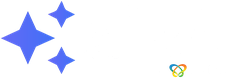
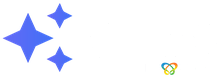
Fix: Header flicker

diff --git a/events.html b/events.html
@@ -85,7 +85,7 @@
             <div class="evh1__poster">
               <span class="evh1__dots" aria-hidden="true"></span>
               <canvas class="evh1__parts" data-us-dots aria-hidden="true"></canvas>
-              <p class="evh1__pre"><img class="evh1__logo" src="/assets/brand/aira-lockup-reverse.png" alt="aiRA by Capillary" width="96" height="32"><span>presents</span></p>
+              <p class="evh1__pre"><img class="evh1__logo" src="/assets/brand/aira-lockup-reverse.png" alt="aiRA by Capillary" width="92" height="32"><span>presents</span></p>
               <h1 class="evh1__t">The Future<br>of AI in<br><em>Customer<br>Analytics</em></h1>
               <p class="evh1__year"><i aria-hidden="true">&#10022;</i> Live across US <i aria-hidden="true">&#10022;</i></p>
               <ul class="evh1__dates">

diff --git a/index.html b/index.html
@@ -835,7 +835,7 @@
                 <span class="sr-only">Compared on</span>
               </div>
               <div class="compare__cell compare__cell--aira compare__cell--head" role="columnheader">
-                <img src="/assets/brand/aira-lockup-reverse.png" alt="aiRA by Capillary" width="96" height="32">
+                <img src="/assets/brand/aira-lockup-reverse.png" alt="aiRA by Capillary" width="92" height="32">
               </div>
               <div class="compare__cell compare__cell--other compare__cell--head" role="columnheader">
                 Horizontal AI analytics platforms

diff --git a/components/navbar.html b/components/navbar.html
@@ -12,7 +12,7 @@
         <img class="nav__logo-light" src="/assets/brand/aira-lockup.png"
              alt="aiRA by Capillary" width="92" height="32">
         <img class="nav__logo-dark" src="/assets/brand/aira-lockup-reverse.png"
-             alt="" aria-hidden="true" width="96" height="32">
+             alt="" aria-hidden="true" width="92" height="32">
       </a>
 
       <button class="nav__burger" type="button" aria-label="Open menu"
